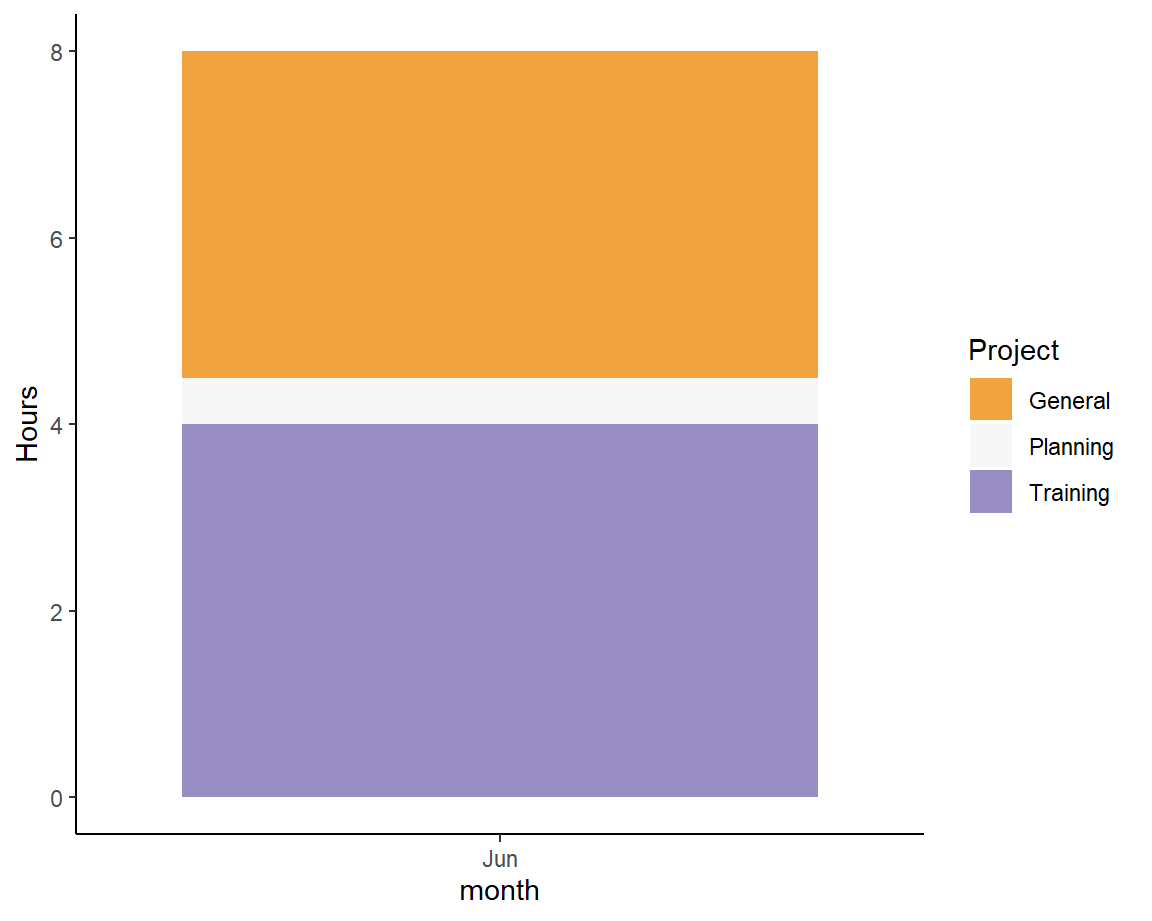
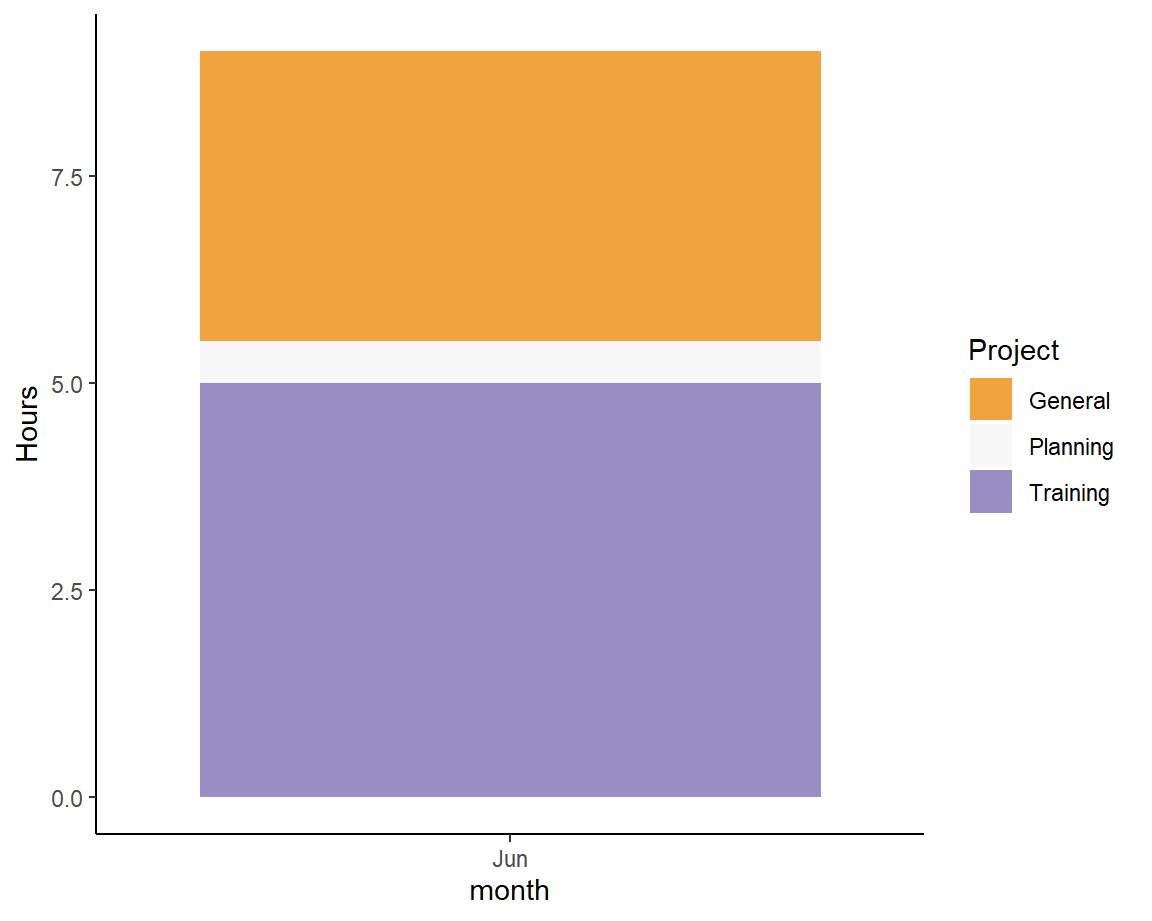
update

Changed region(s): [[0.1562, 0.0608, 0.7188, 0.8817], [0.0312, 0.0304, 0.0938, 0.9121], [0.4062, 0.9121, 0.4688, 1.0]]

diff --git a/docs/index.html b/docs/index.html
@@ -1904,11 +1904,11 @@ class="section level3">
 </div>
 <table>
 <colgroup>
-<col width="12%" />
-<col width="13%" />
 <col width="9%" />
-<col width="58%" />
-<col width="6%" />
+<col width="10%" />
+<col width="7%" />
+<col width="67%" />
+<col width="5%" />
 </colgroup>
 <thead>
 <tr class="header">
@@ -1976,6 +1976,14 @@ etc.)</td>
 <td align="left">Training</td>
 <td align="left">Canada GCP - Stage 1 - Basic</td>
 <td align="right">2.0</td>
+</tr>
+<tr class="odd">
+<td align="left">2024-06-28</td>
+<td align="left">Friday</td>
+<td align="left">Training</td>
+<td align="left">Health Canada Division 5 - Drugs For Clinical Trials
+Involving Human Subjects</td>
+<td align="right">1.0</td>
 </tr>
 </tbody>
 </table>
